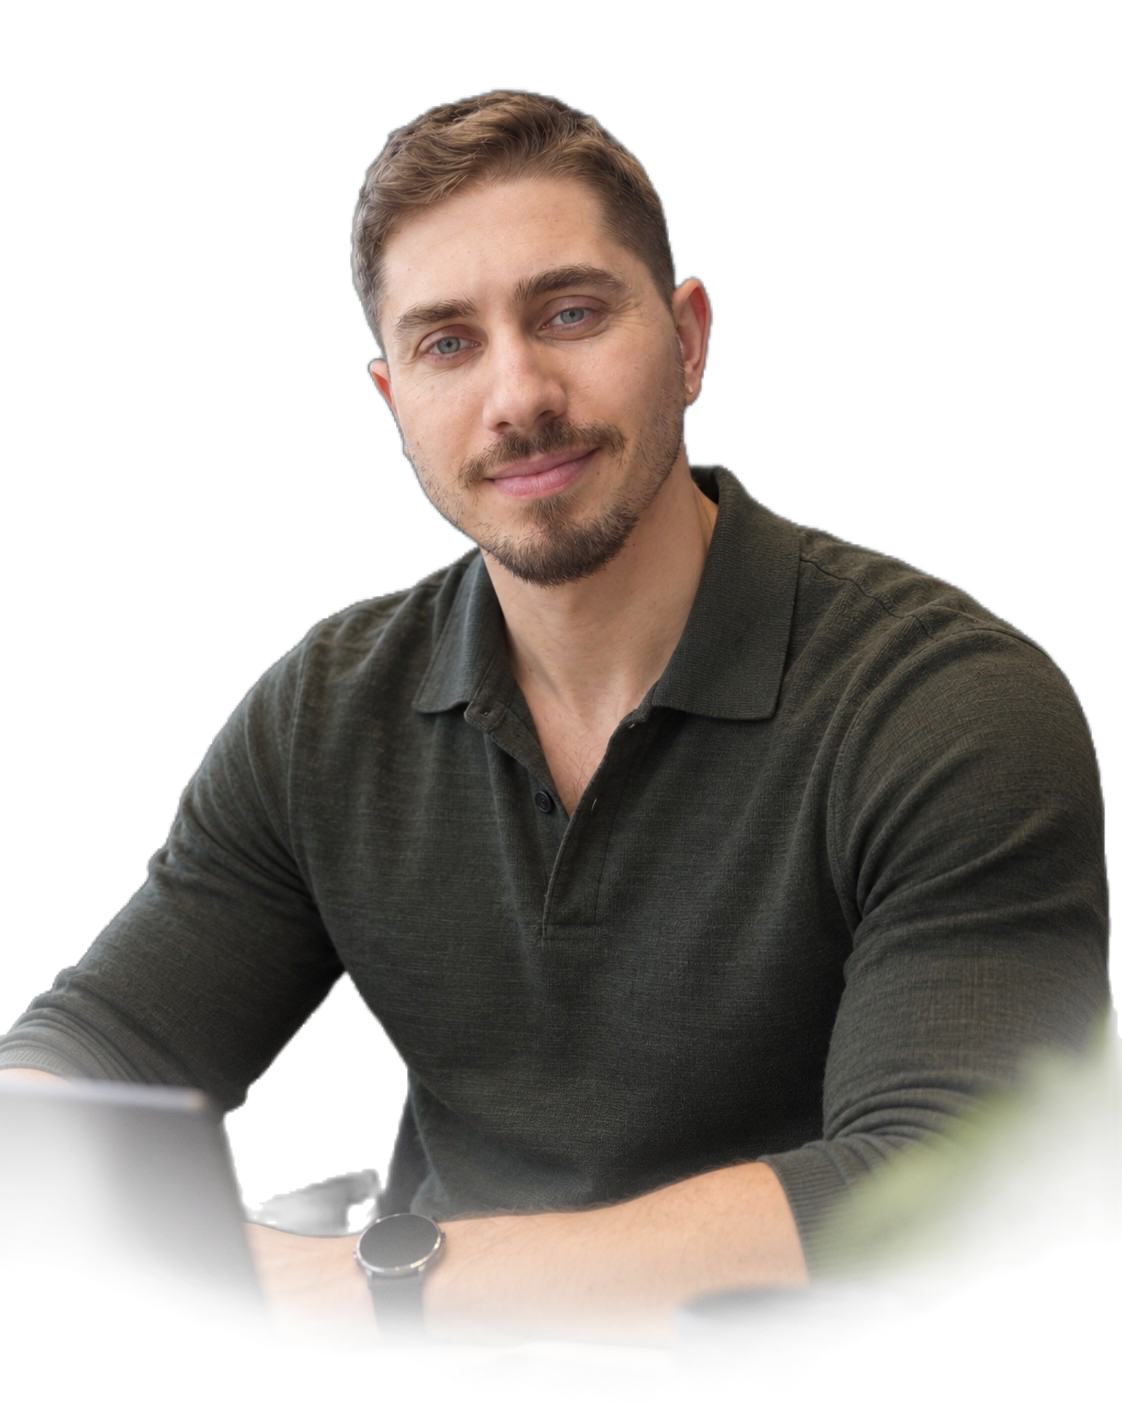
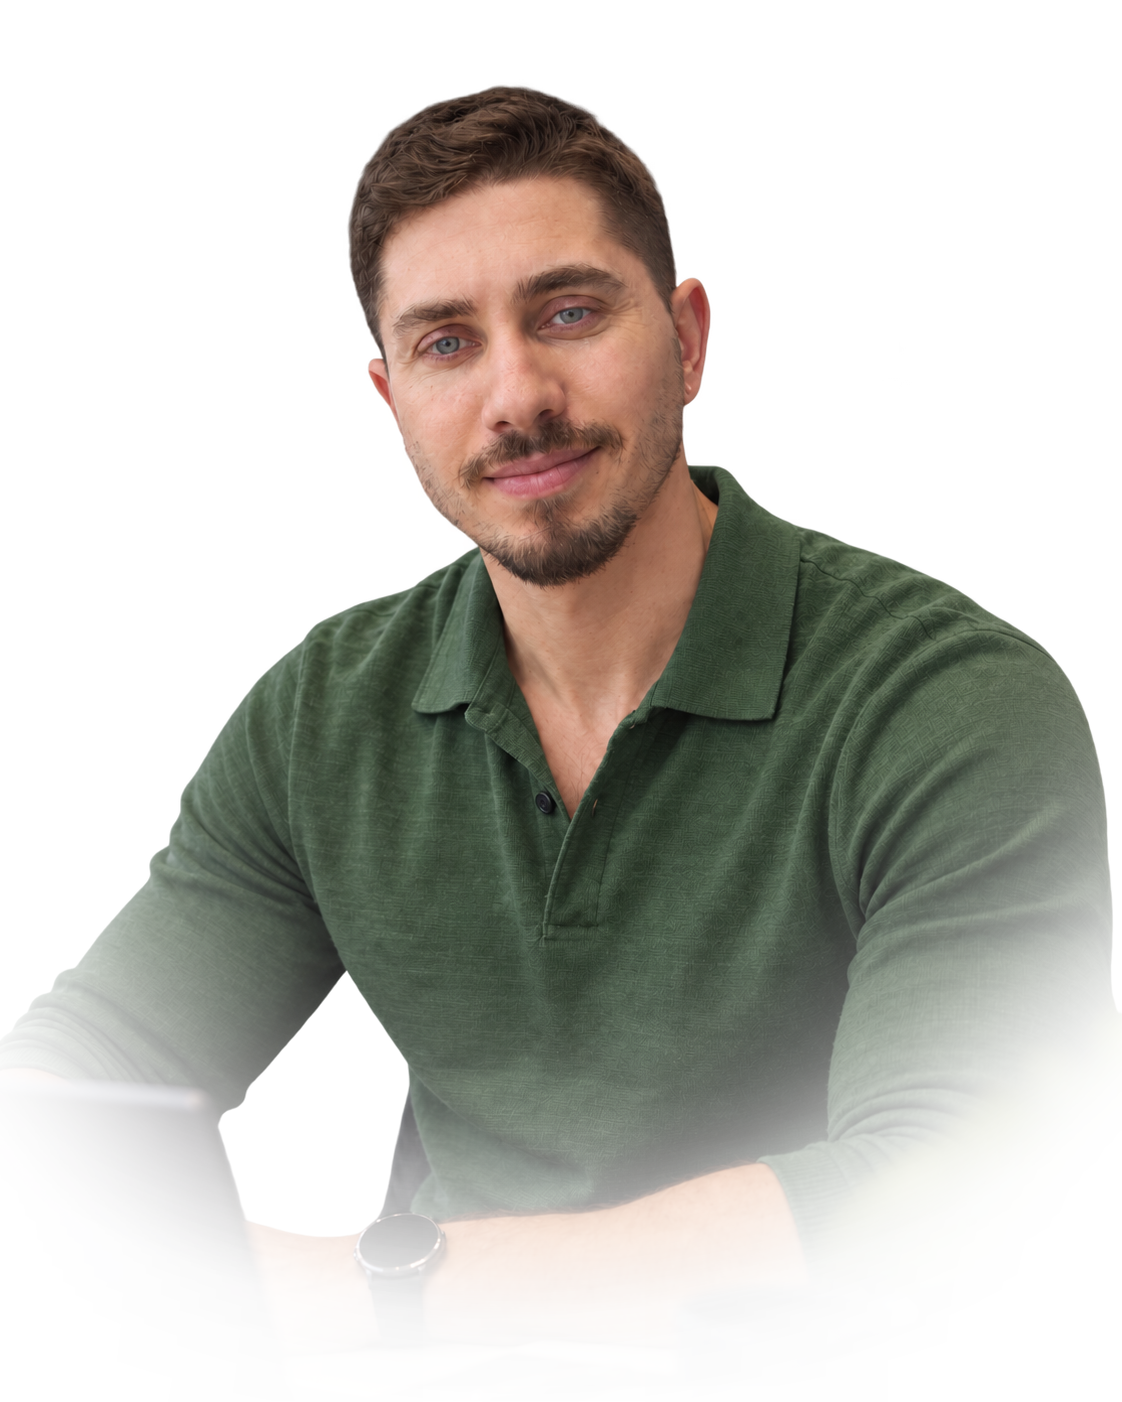
ui changes

diff --git a/styles.css b/styles.css
@@ -1,4 +1,4 @@
-:root{--bg:#07100d;--panel:#101a17;--panel2:#131e1b;--line:#22302c;--text:#f4f7f5;--muted:#aab4b0;--green:#42d66b;--green2:#2ec95b;--max:1440px}*{box-sizing:border-box}html{scroll-behavior:smooth;background:var(--bg);overscroll-behavior:none}body{margin:0;min-height:100vh;overscroll-behavior:none;background:radial-gradient(circle at 74% 7%,rgba(24,111,58,.18),transparent 24%),linear-gradient(180deg,#08110f,#07100d 75%);color:var(--text);font-family:Inter,system-ui,sans-serif}.wrap{width:min(calc(100% - 110px),var(--max));margin:auto}a{color:inherit;text-decoration:none}.nav{height:86px;display:grid;grid-template-columns:1fr auto 1fr;align-items:center;gap:42px}.brand{display:flex;align-items:center;gap:18px;font-weight:700}.brand>b{font-size:29px;color:var(--green)}.nav nav{display:flex;gap:42px;color:#c4cbc8;font-size:14px}.nav>.pill{justify-self:end}.pill{display:inline-flex;align-items:center;justify-content:center;gap:30px;border-radius:999px;padding:16px 24px;font-size:14px;font-weight:700}.pill.primary{background:linear-gradient(135deg,#55df78,#2fc65a);color:#06100b;box-shadow:0 8px 30px rgba(48,203,91,.12)}.pill.secondary{background:#18231f;border:1px solid #27352f;color:#e9efec}.pill.small{padding:13px 22px}.hero{min-height:670px;display:grid;grid-template-columns:1.02fr .98fr;align-items:stretch;border-bottom:1px solid var(--line)}.hero-copy{padding:70px 0 58px;position:relative;z-index:2}.available{color:var(--green);font-size:13px;margin-bottom:27px}.hero h1{font-size:clamp(54px,5.5vw,84px);line-height:1.02;letter-spacing:-.052em;margin:0 0 22px}.hero h1 em{font-style:normal;color:var(--green)}.hero-copy>p{max-width:680px;color:#d3d9d6;font-size:17px;line-height:1.65}.actions{display:flex;gap:16px;margin:38px 0 34px}.socials{display:flex;gap:28px;align-items:center;flex-wrap:wrap;font-size:13px}.socials span{color:#c2cbc6}.portrait{position:relative;overflow:hidden;min-height:670px}.portrait:after{content:"";position:absolute;inset:auto 0 0;height:22%;background:linear-gradient(transparent,var(--bg));pointer-events:none}.portrait img{position:absolute;height:96%;width:auto;max-width:none;right:-2%;bottom:-2%;z-index:2}.glow{position:absolute;width:80%;aspect-ratio:1;border-radius:50%;right:3%;top:6%;background:radial-gradient(circle,rgba(39,172,81,.35),rgba(14,79,43,.14) 45%,transparent 70%);filter:blur(10px)}.scribble{position:absolute;z-index:3;left:6%;top:28%;font:500 36px/1 Caveat,cursive;color:rgba(255,255,255,.38);transform:rotate(-8deg)}.scribble span{margin-left:15px}.scribble i{font-style:normal;margin-left:28px;color:rgba(72,219,104,.6)}.section{padding:34px 0 38px;border-bottom:1px solid var(--line)}.section.compact{padding-top:24px}.section-tag{font-size:12px;font-weight:700;letter-spacing:.17em;color:var(--green);margin-bottom:20px}.about-grid{display:grid;grid-template-columns:1fr 1fr;gap:70px}.section h2{font-size:38px;letter-spacing:-.035em;line-height:1.16;margin:0 0 24px}.body-copy{max-width:650px;color:#c0c8c4;font-size:15px;line-height:1.7}.feature-grid{display:grid;grid-template-columns:1fr 1fr;gap:14px}.feature-grid article{background:linear-gradient(145deg,var(--panel2),#0d1714);border:1px solid var(--line);border-radius:14px;padding:26px 28px;min-height:170px}.feature-icon{font-size:31px;color:var(--green);height:42px}.feature-icon.apple{color:white}.feature-icon.kmp{color:#ae67ff;font-weight:800}.feature-icon.code{font-weight:800}.feature-grid h3{font-size:17px;margin:14px 0 9px}.feature-grid p{color:var(--muted);font-size:13px;line-height:1.5;margin:0}.section-title-row{display:flex;align-items:center;justify-content:space-between;gap:25px}.section-title-row>p{color:var(--muted);font-size:14px}.tech-row{display:grid;grid-template-columns:repeat(10,1fr);gap:14px}.tech-row>div{min-height:112px;background:linear-gradient(145deg,#111c19,#0d1714);border:1px solid var(--line);border-radius:12px;display:flex;flex-direction:column;align-items:center;justify-content:center;gap:12px;text-align:center}.tech-row b{font-size:29px;color:var(--green)}.tech-row span{font-size:12px}.outline-pill{border:1px solid #34433e;border-radius:999px;padding:12px 19px;font-size:12px}.timeline{position:relative;margin-top:8px}.timeline:before{content:"";position:absolute;left:9px;top:16px;bottom:16px;width:1px;background:var(--green)}.timeline article{position:relative;display:grid;grid-template-columns:180px 330px 1fr;gap:20px;padding:15px 0 15px 40px;align-items:start}.timeline article:before{content:"";position:absolute;left:2px;top:22px;width:14px;height:14px;background:var(--green);border-radius:50%}.date{font-size:13px;color:#cbd3cf}.role h3{font-size:16px;margin:0 0 6px}.role b{font-size:12px;color:var(--green)}.timeline p{font-size:13px;line-height:1.55;color:var(--muted);margin:0}.project-grid{display:grid;grid-template-columns:1fr 1fr;gap:22px}.project-grid article{position:relative;display:grid;grid-template-columns:78px 1fr auto;gap:18px;align-items:center;background:linear-gradient(145deg,#111c19,#0d1714);border:1px solid var(--line);border-radius:14px;padding:20px 24px}.project-logo{width:58px;height:58px;border-radius:12px;display:grid;place-items:center;font-size:30px;font-weight:800;background:#14231d}.orbit{color:var(--green);border:6px solid var(--green);border-radius:50%}.nexo{color:#23b8e6}.project-grid h3{margin:0 0 5px;font-size:18px}.project-grid p{color:#c2cac6;font-size:12px;line-height:1.45;margin:0}.chips{display:flex;gap:7px;margin-top:10px;flex-wrap:wrap}.chips span{font-size:10px;padding:4px 10px;border-radius:999px;background:#26322e}.arrow{color:var(--green);font-size:20px}.footer{min-height:90px;display:flex;justify-content:space-between;align-items:center;color:#aab4b0;font-size:11px}.footer .brand span{display:flex;flex-direction:column;color:white}.footer small{color:#98a39e;font-weight:400;margin-top:3px}
+:root{--bg:#07100d;--panel:#101a17;--panel2:#131e1b;--line:#22302c;--text:#f4f7f5;--muted:#aab4b0;--green:#42d66b;--green2:#2ec95b;--max:1440px}*{box-sizing:border-box}html{scroll-behavior:smooth;background:var(--bg);overscroll-behavior:none}body{margin:0;min-height:100vh;overscroll-behavior:none;background:radial-gradient(circle at 74% 7%,rgba(24,111,58,.18),transparent 24%),linear-gradient(180deg,#08110f,#07100d 75%);color:var(--text);font-family:Inter,system-ui,sans-serif}.wrap{width:min(calc(100% - 110px),var(--max));margin:auto}a{color:inherit;text-decoration:none}.nav{height:86px;display:grid;grid-template-columns:1fr auto 1fr;align-items:center;gap:42px}.brand{display:flex;align-items:center;gap:18px;font-weight:700}.brand>b{font-size:29px;color:var(--green)}.nav nav{display:flex;gap:42px;color:#c4cbc8;font-size:14px}.nav>.pill{justify-self:end}.pill{display:inline-flex;align-items:center;justify-content:center;gap:30px;border-radius:999px;padding:16px 24px;font-size:14px;font-weight:700}.pill.primary{background:linear-gradient(135deg,#55df78,#2fc65a);color:#06100b;box-shadow:0 8px 30px rgba(48,203,91,.12)}.pill.secondary{background:#18231f;border:1px solid #27352f;color:#e9efec}.pill.small{padding:13px 22px}.hero{min-height:670px;display:grid;grid-template-columns:1.02fr .98fr;align-items:stretch;border-bottom:1px solid var(--line)}.hero-copy{padding:70px 0 58px;position:relative;z-index:2}.available{color:var(--green);font-size:13px;margin-bottom:27px}.hero h1{font-size:clamp(54px,5.5vw,84px);line-height:1.02;letter-spacing:-.052em;margin:0 0 22px}.hero h1 em{font-style:normal;color:var(--green)}.hero-copy>p{max-width:680px;color:#d3d9d6;font-size:17px;line-height:1.65}.actions{display:flex;gap:16px;margin:38px 0 34px}.socials{display:flex;gap:28px;align-items:center;flex-wrap:wrap;font-size:13px}.socials span{color:#c2cbc6}.portrait{position:relative;overflow:hidden;min-height:670px}.portrait:after{content:"";position:absolute;inset:auto 0 0;height:22%;background:linear-gradient(transparent,var(--bg));pointer-events:none}.portrait img{position:absolute;height:96%;width:auto;max-width:none;right:10%;bottom:-2%;z-index:2}.glow{position:absolute;width:80%;aspect-ratio:1;border-radius:50%;right:3%;top:6%;background:radial-gradient(circle,rgba(39,172,81,.35),rgba(14,79,43,.14) 45%,transparent 70%);filter:blur(10px)}.scribble{position:absolute;z-index:3;left:6%;top:28%;font:500 36px/1 Caveat,cursive;color:rgba(255,255,255,.38);transform:rotate(-8deg)}.scribble span{margin-left:15px}.scribble i{font-style:normal;margin-left:28px;color:rgba(72,219,104,.6)}.section{padding:34px 0 38px;border-bottom:1px solid var(--line)}.section.compact{padding-top:24px}.section-tag{font-size:12px;font-weight:700;letter-spacing:.17em;color:var(--green);margin-bottom:20px}.about-grid{display:grid;grid-template-columns:1fr 1fr;gap:70px}.section h2{font-size:38px;letter-spacing:-.035em;line-height:1.16;margin:0 0 24px}.body-copy{max-width:650px;color:#c0c8c4;font-size:15px;line-height:1.7}.feature-grid{display:grid;grid-template-columns:1fr 1fr;gap:14px}.feature-grid article{background:linear-gradient(145deg,var(--panel2),#0d1714);border:1px solid var(--line);border-radius:14px;padding:26px 28px;min-height:170px}.feature-icon{font-size:31px;color:var(--green);height:42px}.feature-icon.apple{color:white}.feature-icon.kmp{color:#ae67ff;font-weight:800}.feature-icon.code{font-weight:800}.feature-grid h3{font-size:17px;margin:14px 0 9px}.feature-grid p{color:var(--muted);font-size:13px;line-height:1.5;margin:0}.section-title-row{display:flex;align-items:center;justify-content:space-between;gap:25px}.section-title-row>p{color:var(--muted);font-size:14px}.tech-row{display:grid;grid-template-columns:repeat(10,1fr);gap:14px}.tech-row>div{min-height:112px;background:linear-gradient(145deg,#111c19,#0d1714);border:1px solid var(--line);border-radius:12px;display:flex;flex-direction:column;align-items:center;justify-content:center;gap:12px;text-align:center}.tech-row b{font-size:29px;color:var(--green)}.tech-row span{font-size:12px}.outline-pill{border:1px solid #34433e;border-radius:999px;padding:12px 19px;font-size:12px}.timeline{position:relative;margin-top:8px}.timeline:before{content:"";position:absolute;left:9px;top:16px;bottom:16px;width:1px;background:var(--green)}.timeline article{position:relative;display:grid;grid-template-columns:180px 330px 1fr;gap:20px;padding:15px 0 15px 40px;align-items:start}.timeline article:before{content:"";position:absolute;left:2px;top:22px;width:14px;height:14px;background:var(--green);border-radius:50%}.date{font-size:13px;color:#cbd3cf}.role h3{font-size:16px;margin:0 0 6px}.role b{font-size:12px;color:var(--green)}.timeline p{font-size:13px;line-height:1.55;color:var(--muted);margin:0}.project-grid{display:grid;grid-template-columns:1fr 1fr;gap:22px}.project-grid article{position:relative;display:grid;grid-template-columns:78px 1fr auto;gap:18px;align-items:center;background:linear-gradient(145deg,#111c19,#0d1714);border:1px solid var(--line);border-radius:14px;padding:20px 24px}.project-logo{width:58px;height:58px;border-radius:12px;display:grid;place-items:center;font-size:30px;font-weight:800;background:#14231d}.orbit{color:var(--green);border:6px solid var(--green);border-radius:50%}.nexo{color:#23b8e6}.project-grid h3{margin:0 0 5px;font-size:18px}.project-grid p{color:#c2cac6;font-size:12px;line-height:1.45;margin:0}.chips{display:flex;gap:7px;margin-top:10px;flex-wrap:wrap}.chips span{font-size:10px;padding:4px 10px;border-radius:999px;background:#26322e}.arrow{color:var(--green);font-size:20px}.footer{min-height:90px;display:flex;justify-content:space-between;align-items:center;color:#aab4b0;font-size:11px}.footer .brand span{display:flex;flex-direction:column;color:white}.footer small{color:#98a39e;font-weight:400;margin-top:3px}
 @media(max-width:1000px){.wrap{width:min(calc(100% - 40px),var(--max))}.nav nav{display:none}.nav{grid-template-columns:1fr auto}.hero{grid-template-columns:1fr;}.portrait{min-height:560px}.about-grid{grid-template-columns:1fr}.tech-row{grid-template-columns:repeat(5,1fr)}.timeline article{grid-template-columns:150px 240px 1fr}.project-grid{grid-template-columns:1fr}}
 @media(max-width:650px){.brand span{display:none}.hero-copy{padding-top:45px}.hero h1{font-size:48px}.portrait{min-height:470px}.portrait img{height:94%;right:-25%}.scribble{font-size:26px}.feature-grid{grid-template-columns:1fr}.tech-row{grid-template-columns:repeat(2,1fr)}.section-title-row{align-items:flex-start;flex-direction:column}.timeline article{grid-template-columns:1fr;gap:5px;padding-left:34px}.project-grid article{grid-template-columns:62px 1fr}.project-grid .arrow{display:none}.footer{gap:20px;flex-direction:column;justify-content:center;padding:25px 0}.actions{flex-direction:column;align-items:stretch}.socials{gap:15px}}
 
